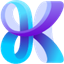
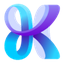
Brand mark: the artwork was clipped by its own canvas
Reported 2026-10-19: 'Kvindo brand icon on the right middle part has part of background'. Measured on the asset: the
mark bled off its 64 px canvas - 15 fully opaque rows sat on the right-hand edge column and 26 on the top row - so at
34 px in the sidebar the right side read as a straight vertical cut. The asset now carries a 6% inset (0 pixels on the
border, pinned by BrandMarkAssetTests, which loads it through the same avares URI the window uses).

The test needed unsafe pointer access for Bitmap.CopyPixels, so the test project enables AllowUnsafeBlocks.

diff --git a/tests/KvindoCode.Tests/HeaderHealthAndBrandTests.cs b/tests/KvindoCode.Tests/HeaderHealthAndBrandTests.cs
@@ -405,3 +405,41 @@ public sealed class HeaderHealthAndBrandTests(ITestOutputHelper o)
         Assert.True(Math.Abs(pct.Value - expected) < 1.0, $"shown {pct:0.#}% vs df {expected:0.#}%");
     }
 }
+
+/// <summary>
+/// The brand mark must not touch its own canvas edge.
+/// </summary>
+/// <remarks>
+/// Reported 2026-10-19: "Kvindo brand icon on the right middle part has part of background". Measured on the asset: the
+/// artwork was CLIPPED by its 64 px canvas — 15 fully opaque rows sat on the right-hand edge column and 26 on the top
+/// row — so at 34 px in the sidebar it read as a straight vertical cut, with a sliver of something that is not the mark
+/// beside it. A logo that bleeds off its own box has no margin to shrink into, so the asset now carries a 6% inset and
+/// this test keeps it that way.
+/// </remarks>
+public sealed class BrandMarkAssetTests
+{
+    // AvaloniaFact: the asset loader needs the platform services the headless harness sets up.
+    [Avalonia.Headless.XUnit.AvaloniaFact]
+    public void The_mark_does_not_bleed_off_its_canvas()
+    {
+        // Loaded through the SAME avares URI the window uses, so the test cannot pass on a file that the app does not
+        // actually ship.
+        using var stream = Avalonia.Platform.AssetLoader.Open(new Uri("avares://kvindocode/Assets/kvindo-k.png"));
+        using var bmp = new Avalonia.Media.Imaging.Bitmap(stream);
+        Assert.Equal(64, bmp.PixelSize.Width);          // square, so Width == Height in the Image element stays true
+        Assert.Equal(64, bmp.PixelSize.Height);
+        // Read the pixels with Bitmap.CopyPixels: the asset is small and this runs once.
+        var w = bmp.PixelSize.Width; var h = bmp.PixelSize.Height;
+        var bytes = new byte[w * h * 4];
+        unsafe
+        {
+            fixed (byte* p = bytes)
+                bmp.CopyPixels(new Avalonia.PixelRect(0, 0, w, h), (IntPtr)p, bytes.Length, w * 4);
+        }
+        int Ink(int x, int y) => bytes[(y * w + x) * 4 + 3];      // BGRA: alpha
+        var border = 0;
+        for (var x = 0; x < w; x++) { if (Ink(x, 0) > 10) border++; if (Ink(x, h - 1) > 10) border++; }
+        for (var y = 0; y < h; y++) { if (Ink(0, y) > 10) border++; if (Ink(w - 1, y) > 10) border++; }
+        Assert.True(border == 0, $"{border} pixels of the mark touch its canvas edge — the artwork is clipped");
+    }
+}
